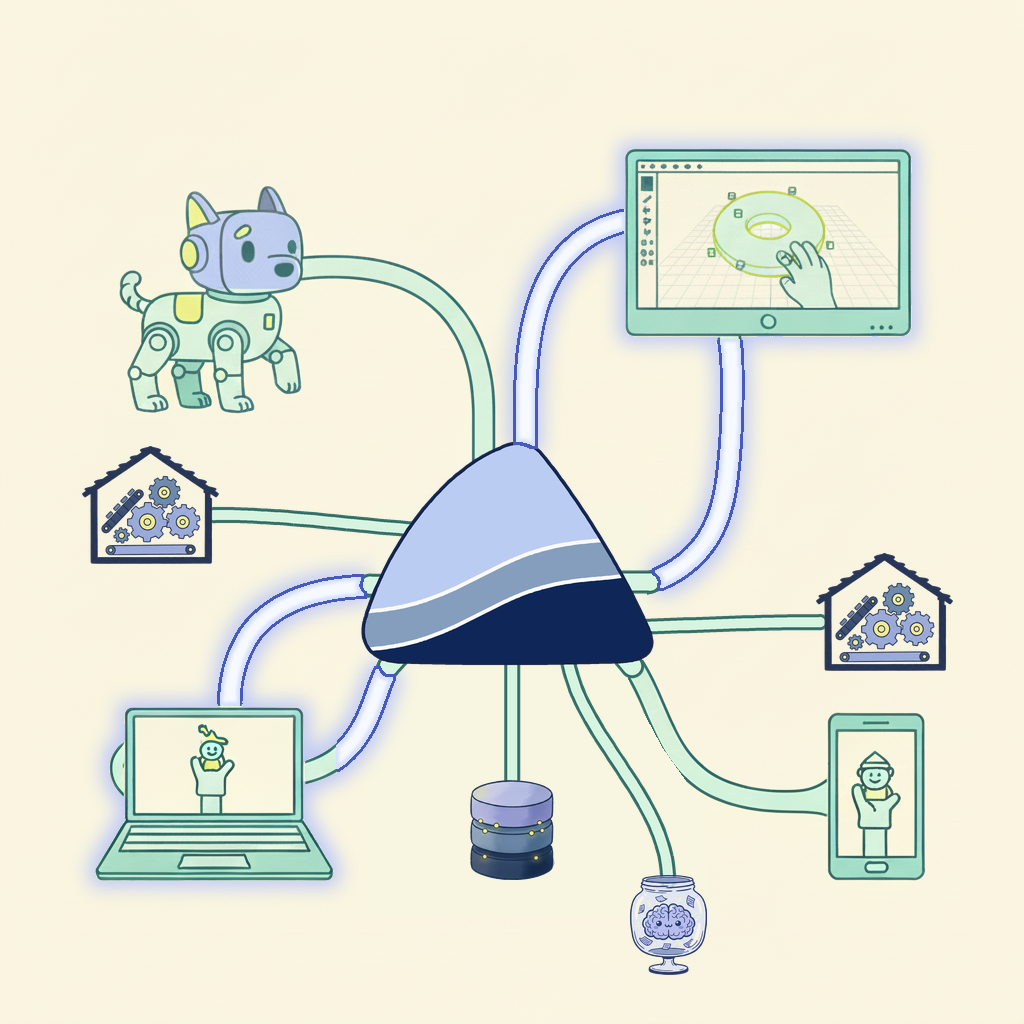
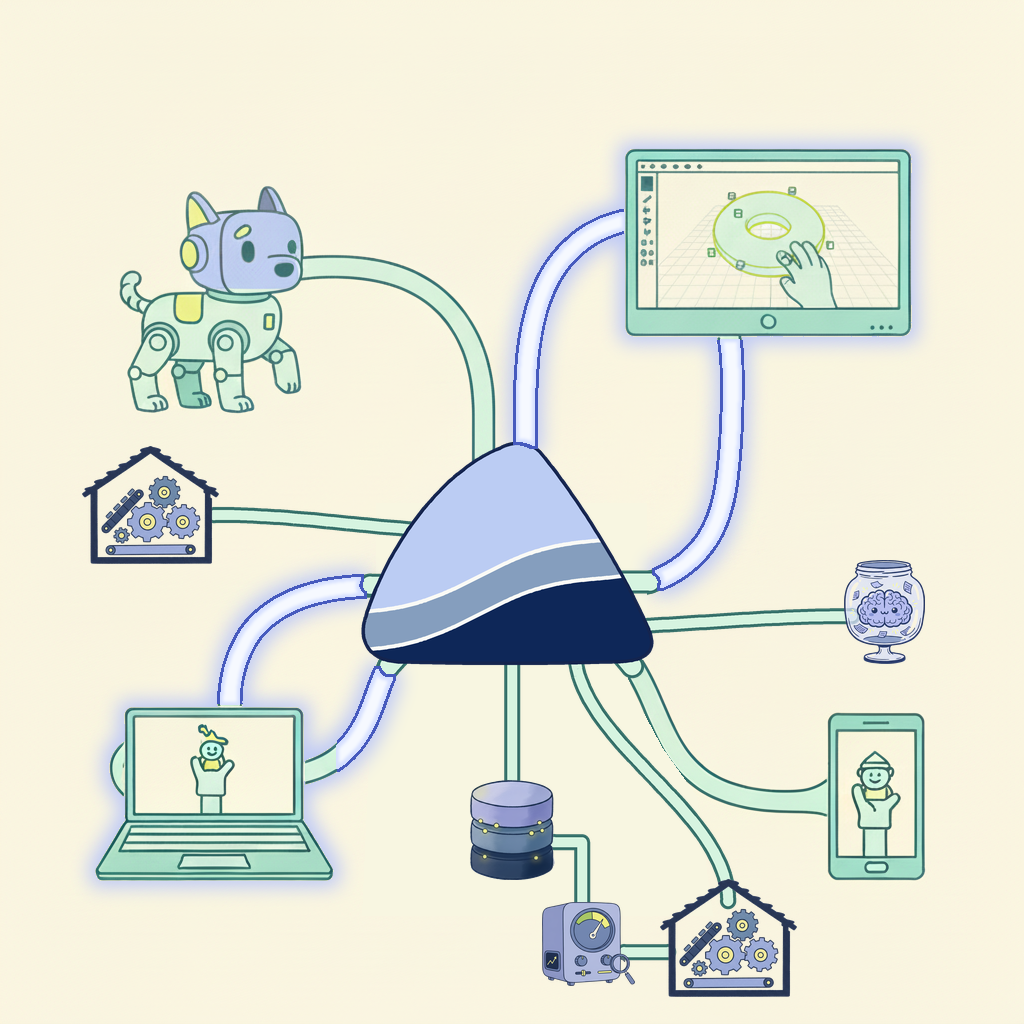
docs(cogent-design): top image adds the optimizer, plugged into the database and a factory

Changed region(s): [[0.5312, 0.6562, 0.7812, 1.0], [0.625, 0.5312, 0.9375, 0.6562]]

diff --git a/docs/cogent-design/index.html b/docs/cogent-design/index.html
@@ -129,7 +129,7 @@ nav .pages a.here { background: var(--accent); border-color: var(--accent); colo
 </nav>
 <main>
 <h1 id="cogent">Cogent<a class="headerlink" href="#cogent" title="Permanent link">#</a></h1>
-<p><img alt="The Softmax logo as the router in the middle, joining a robot dog, a monitor running Blender, a laptop, a phone, two factories, a database and a memory jar. The pipes to the laptop and the monitor glow and the two devices have a halo: that is where the cogent is present. The rest run on their own." src="images/cogent.png" /></p>
+<p><img alt="The Softmax logo as the router in the middle, joining a robot dog, a monitor running Blender, a laptop, a phone, two factories, a database and a memory jar. An optimizer is plugged into the database and attached to one of the factories. The pipes to the laptop and the monitor glow and the two devices have a halo: that is where the cogent is present. The rest run on their own." src="images/cogent.png" /></p>
 <p>A <strong>cogent</strong> is one logical agent. It has an <strong>identity</strong>, a <strong>name</strong> and an
 <strong>owner</strong>, and it runs as a <strong>collection of coglets</strong> spread over many runtimes,
 held together by a <strong>router</strong>. There is no centre: memory, the factory and a

diff --git a/docs/cogent-design/README.md b/docs/cogent-design/README.md
@@ -1,6 +1,6 @@
 # Cogent
 
-![The Softmax logo as the router in the middle, joining a robot dog, a monitor running Blender, a laptop, a phone, two factories, a database and a memory jar. The pipes to the laptop and the monitor glow and the two devices have a halo: that is where the cogent is present. The rest run on their own.](images/cogent.png)
+![The Softmax logo as the router in the middle, joining a robot dog, a monitor running Blender, a laptop, a phone, two factories, a database and a memory jar. An optimizer is plugged into the database and attached to one of the factories. The pipes to the laptop and the monitor glow and the two devices have a halo: that is where the cogent is present. The rest run on their own.](images/cogent.png)
 
 A **cogent** is one logical agent. It has an **identity**, a **name** and an
 **owner**, and it runs as a **collection of coglets** spread over many runtimes,
